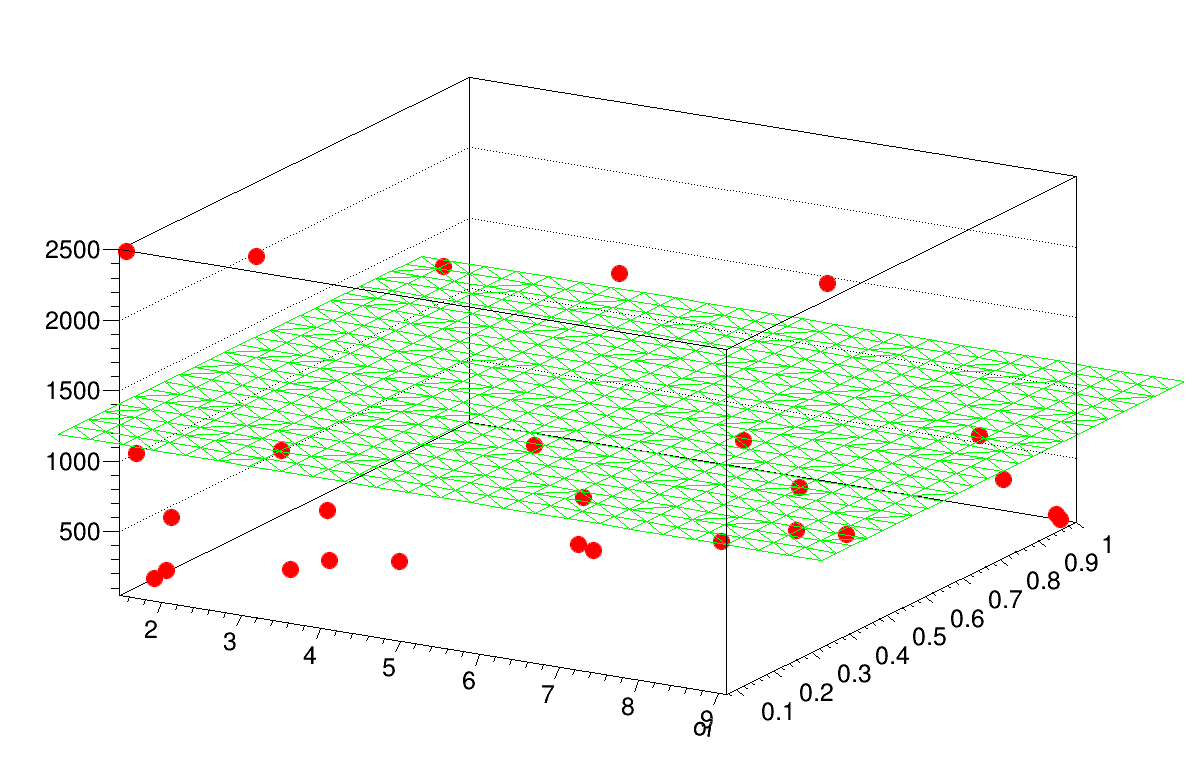
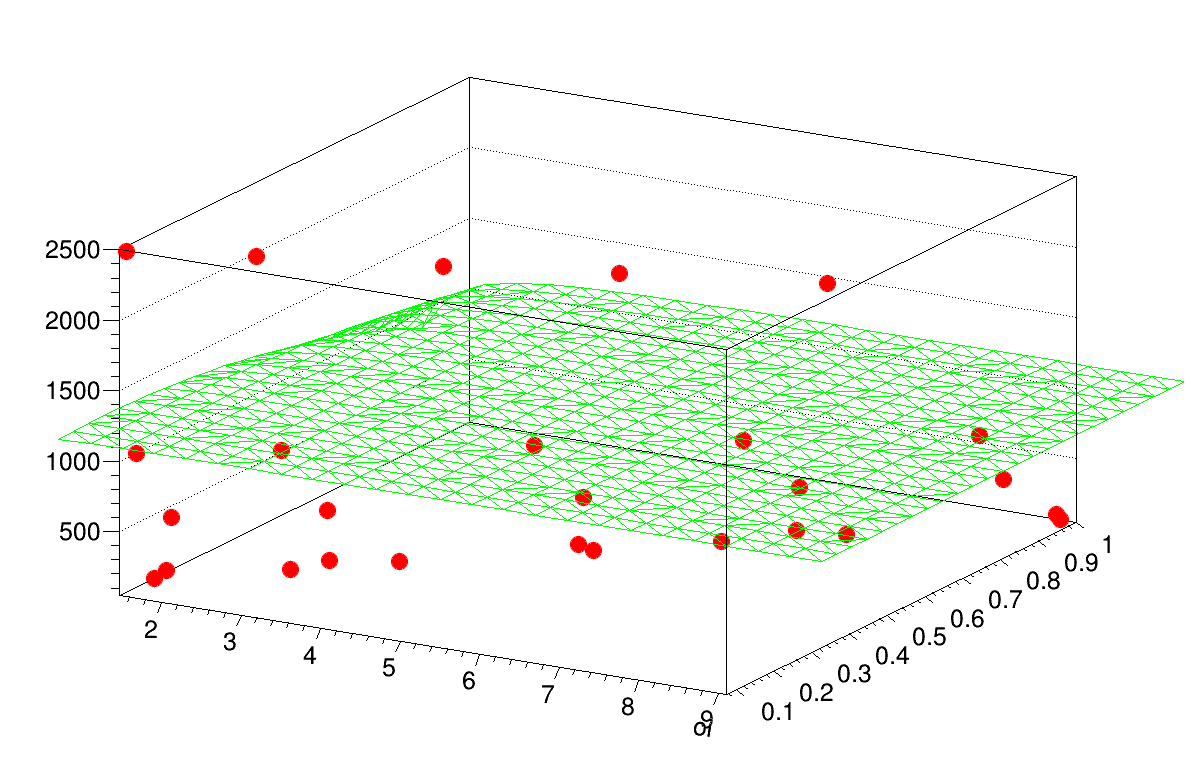
pnlonç

Changed region(s): [[0.0619, 0.342, 0.8043, 0.7461], [0.7734, 0.4974, 0.8043, 0.5596], [0.9281, 0.4974, 0.959, 0.5285]]

diff --git a/Faraday/main/transformador.C b/Faraday/main/transformador.C
@@ -205,7 +205,7 @@ int main(){
     double pr1;
     double pr2;
     double pr3;
-    for(int i = 0; i<1e7; ++i){
+    for(int i = 0; i<1e6; ++i){
         double chit=0;
         f2Dfit->SetParameter(0,Rand.Rndm()*0.1);
         f2Dfit->SetParameter(1,Rand.Rndm()*5);
@@ -230,7 +230,12 @@ int main(){
     f2Dfit->SetParameter(2,pr2);
     f2Dfit->SetParameter(3,pr3);
     
-    //G2D.Fit(f2Dfit);
+    /*G2D.Fit(f2Dfit);
+    double chifit=0;
+    for(int k = 0; k<G2D.GetN(); ++k){
+            chifit+=pow(G2D.GetZ()[k]-f2Dfit->Eval(G2D.GetX()[k],G2D.GetY()[k]),8);
+    }
+    cout<<"fit: "<<chifit<<endl;*/
 
     TGraph2D Gfunc; Gfunc.SetTitle(""); Gfunc.SetLineColor(kGreen); Gfunc.SetMarkerStyle(8); Gfunc.SetMarkerColor(kGreen); Gfunc.SetMarkerSize(1);
     int numpnts = 25;
